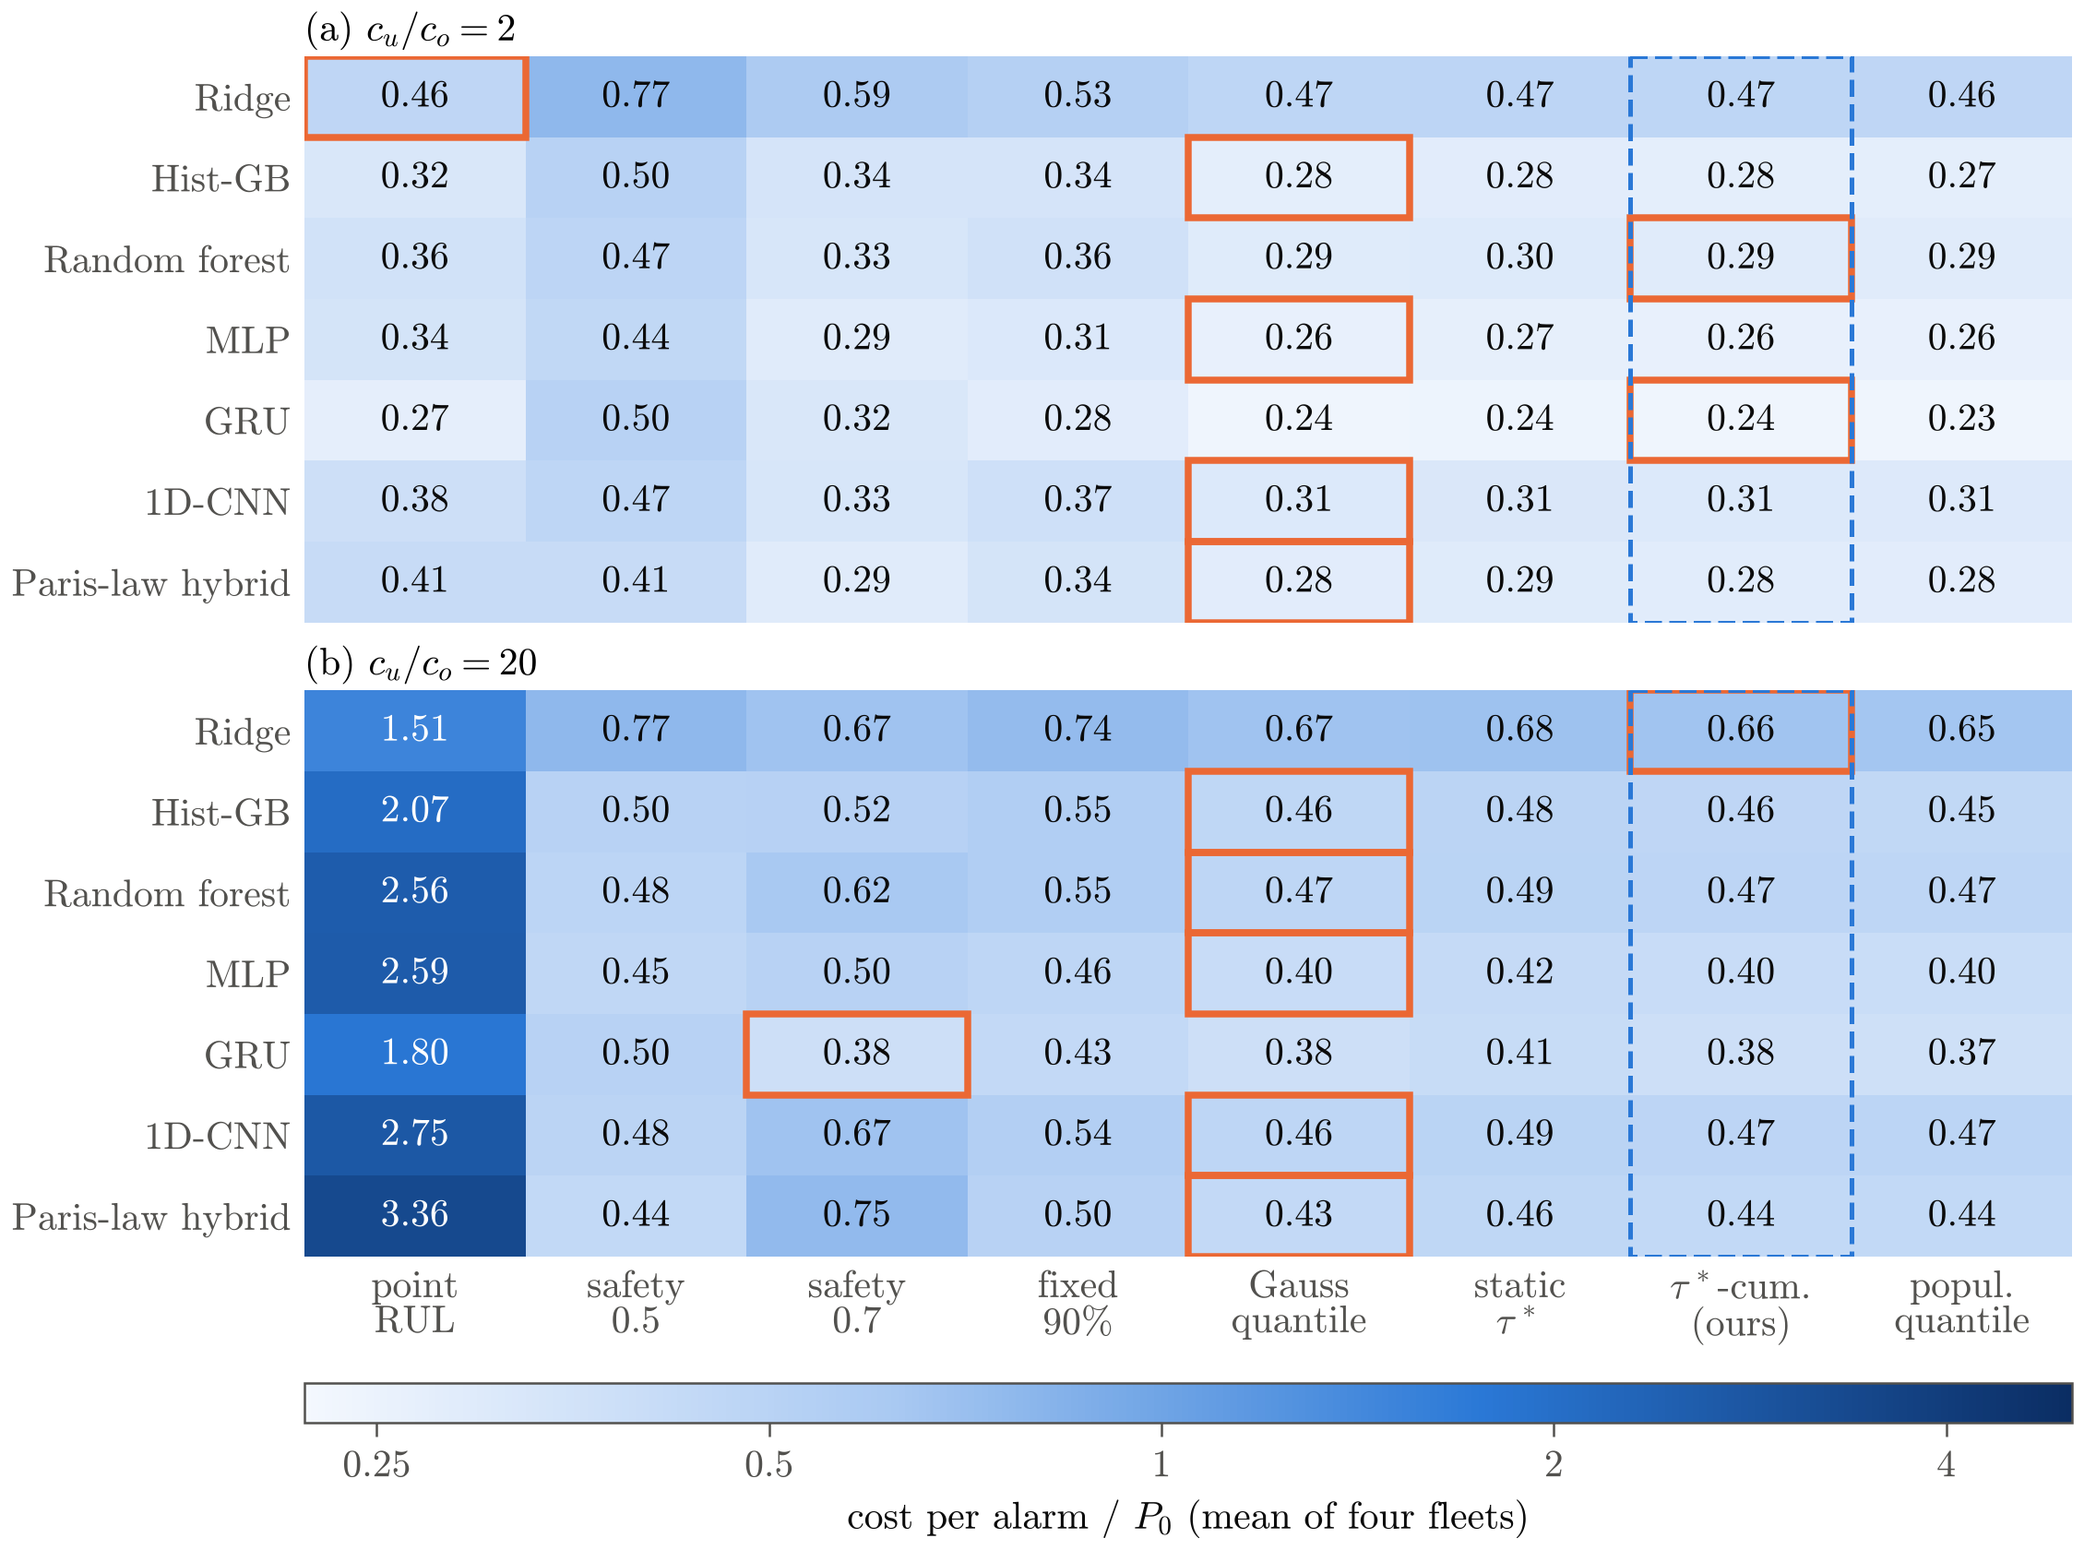
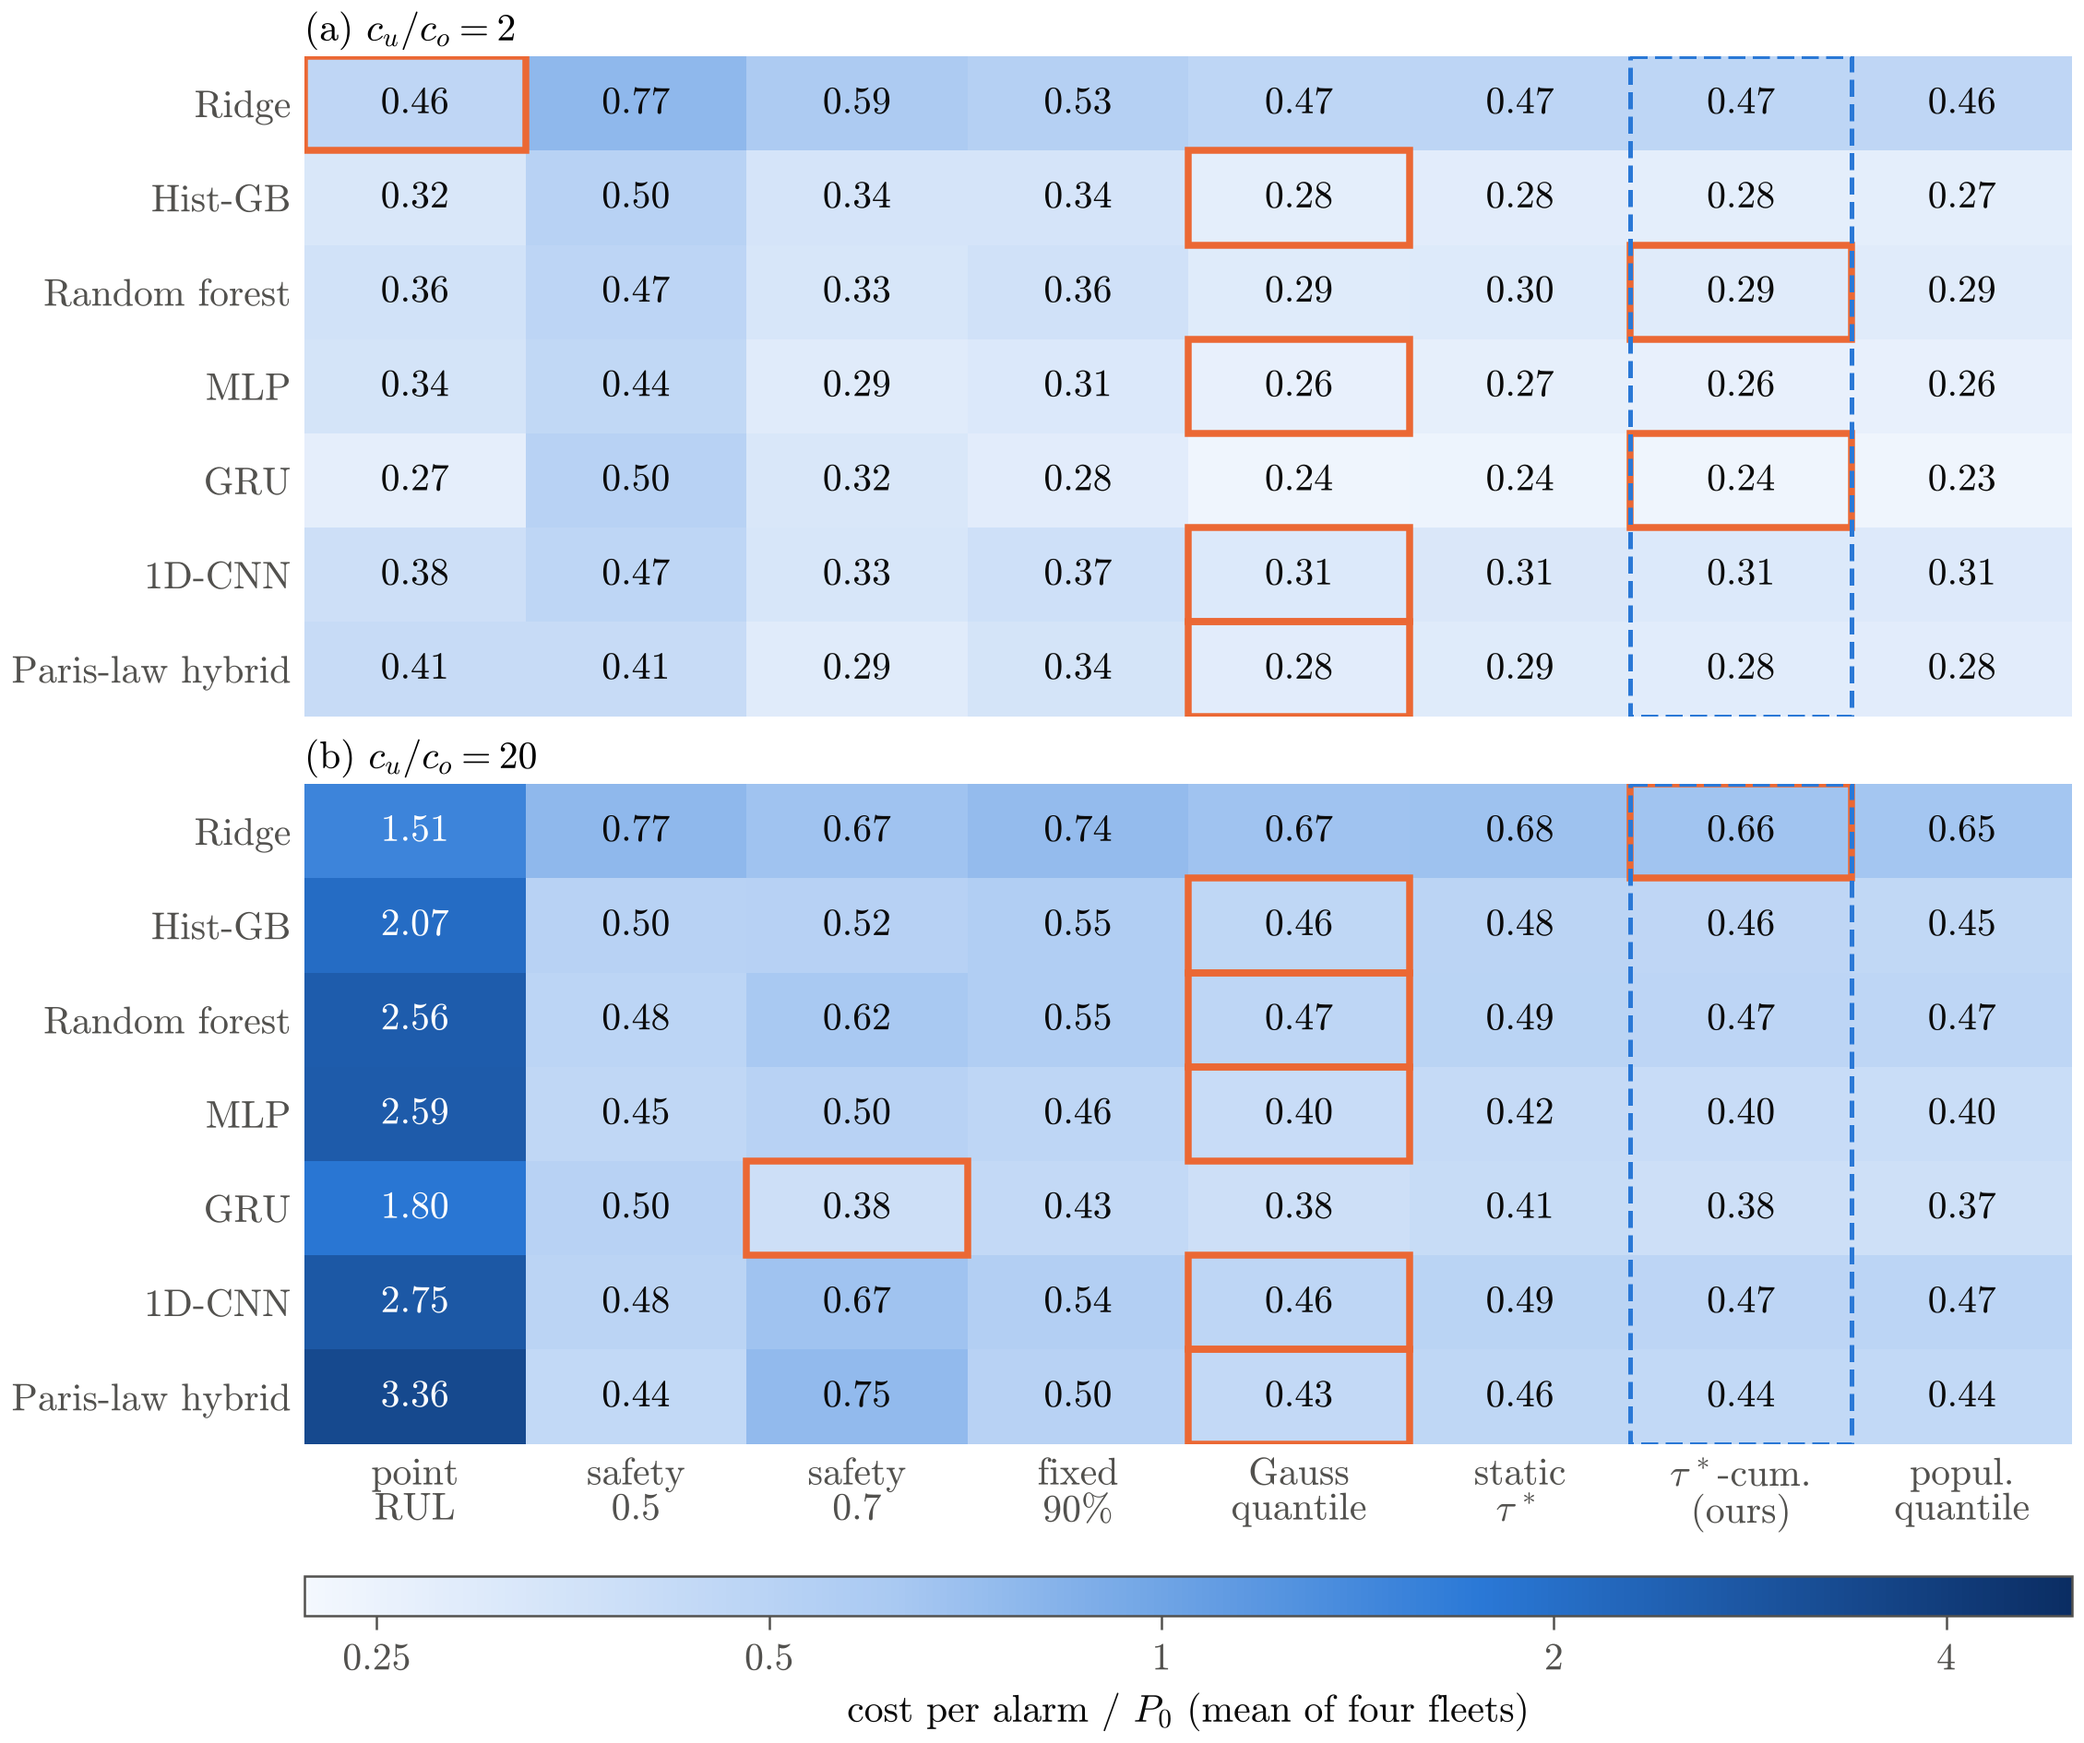
Taller heatmap figure (Fig. 5) to match the manuscript layout
Claude-Session: https://claude.ai/code/session_0155agqPE56e1LQVvixSN9k4

diff --git a/article/src/make_figures.py b/article/src/make_figures.py
@@ -89,7 +89,7 @@ save(fig, "fig_summary")
 # ====================================================================================================================
 COLS = ["point", "a50", "a70", "f90", "gauss", "static", "cum", "oracle"]; CLAB = ["point\nRUL", "safety\n0.5", "safety\n0.7", "fixed\n90%", "Gauss\nquantile", "static\n$\\tau^*$", "$\\tau^*$-cum.\n(ours)", "popul.\nquantile"]
 cm = LinearSegmentedColormap.from_list("seq", ["#f4f8fe", "#a9c9f2", "#2a78d6", "#0b2d63"]); norm = LogNorm(vmin=0.22, vmax=5.0)
-fig, axs = plt.subplots(2, 1, figsize=(7.53, 5.6), sharex=True)
+fig, axs = plt.subplots(2, 1, figsize=(7.53, 6.3), sharex=True)
 for ax, cu, tt in zip(axs, (2, 20), ("(a) $c_u/c_o=2$", "(b) $c_u/c_o=20$")):
     M = np.array([[fmean(n, p, cu) for p in COLS] for n in PRED]); ax.imshow(M, cmap=cm, norm=norm, aspect="auto")
     for i in range(M.shape[0]):
